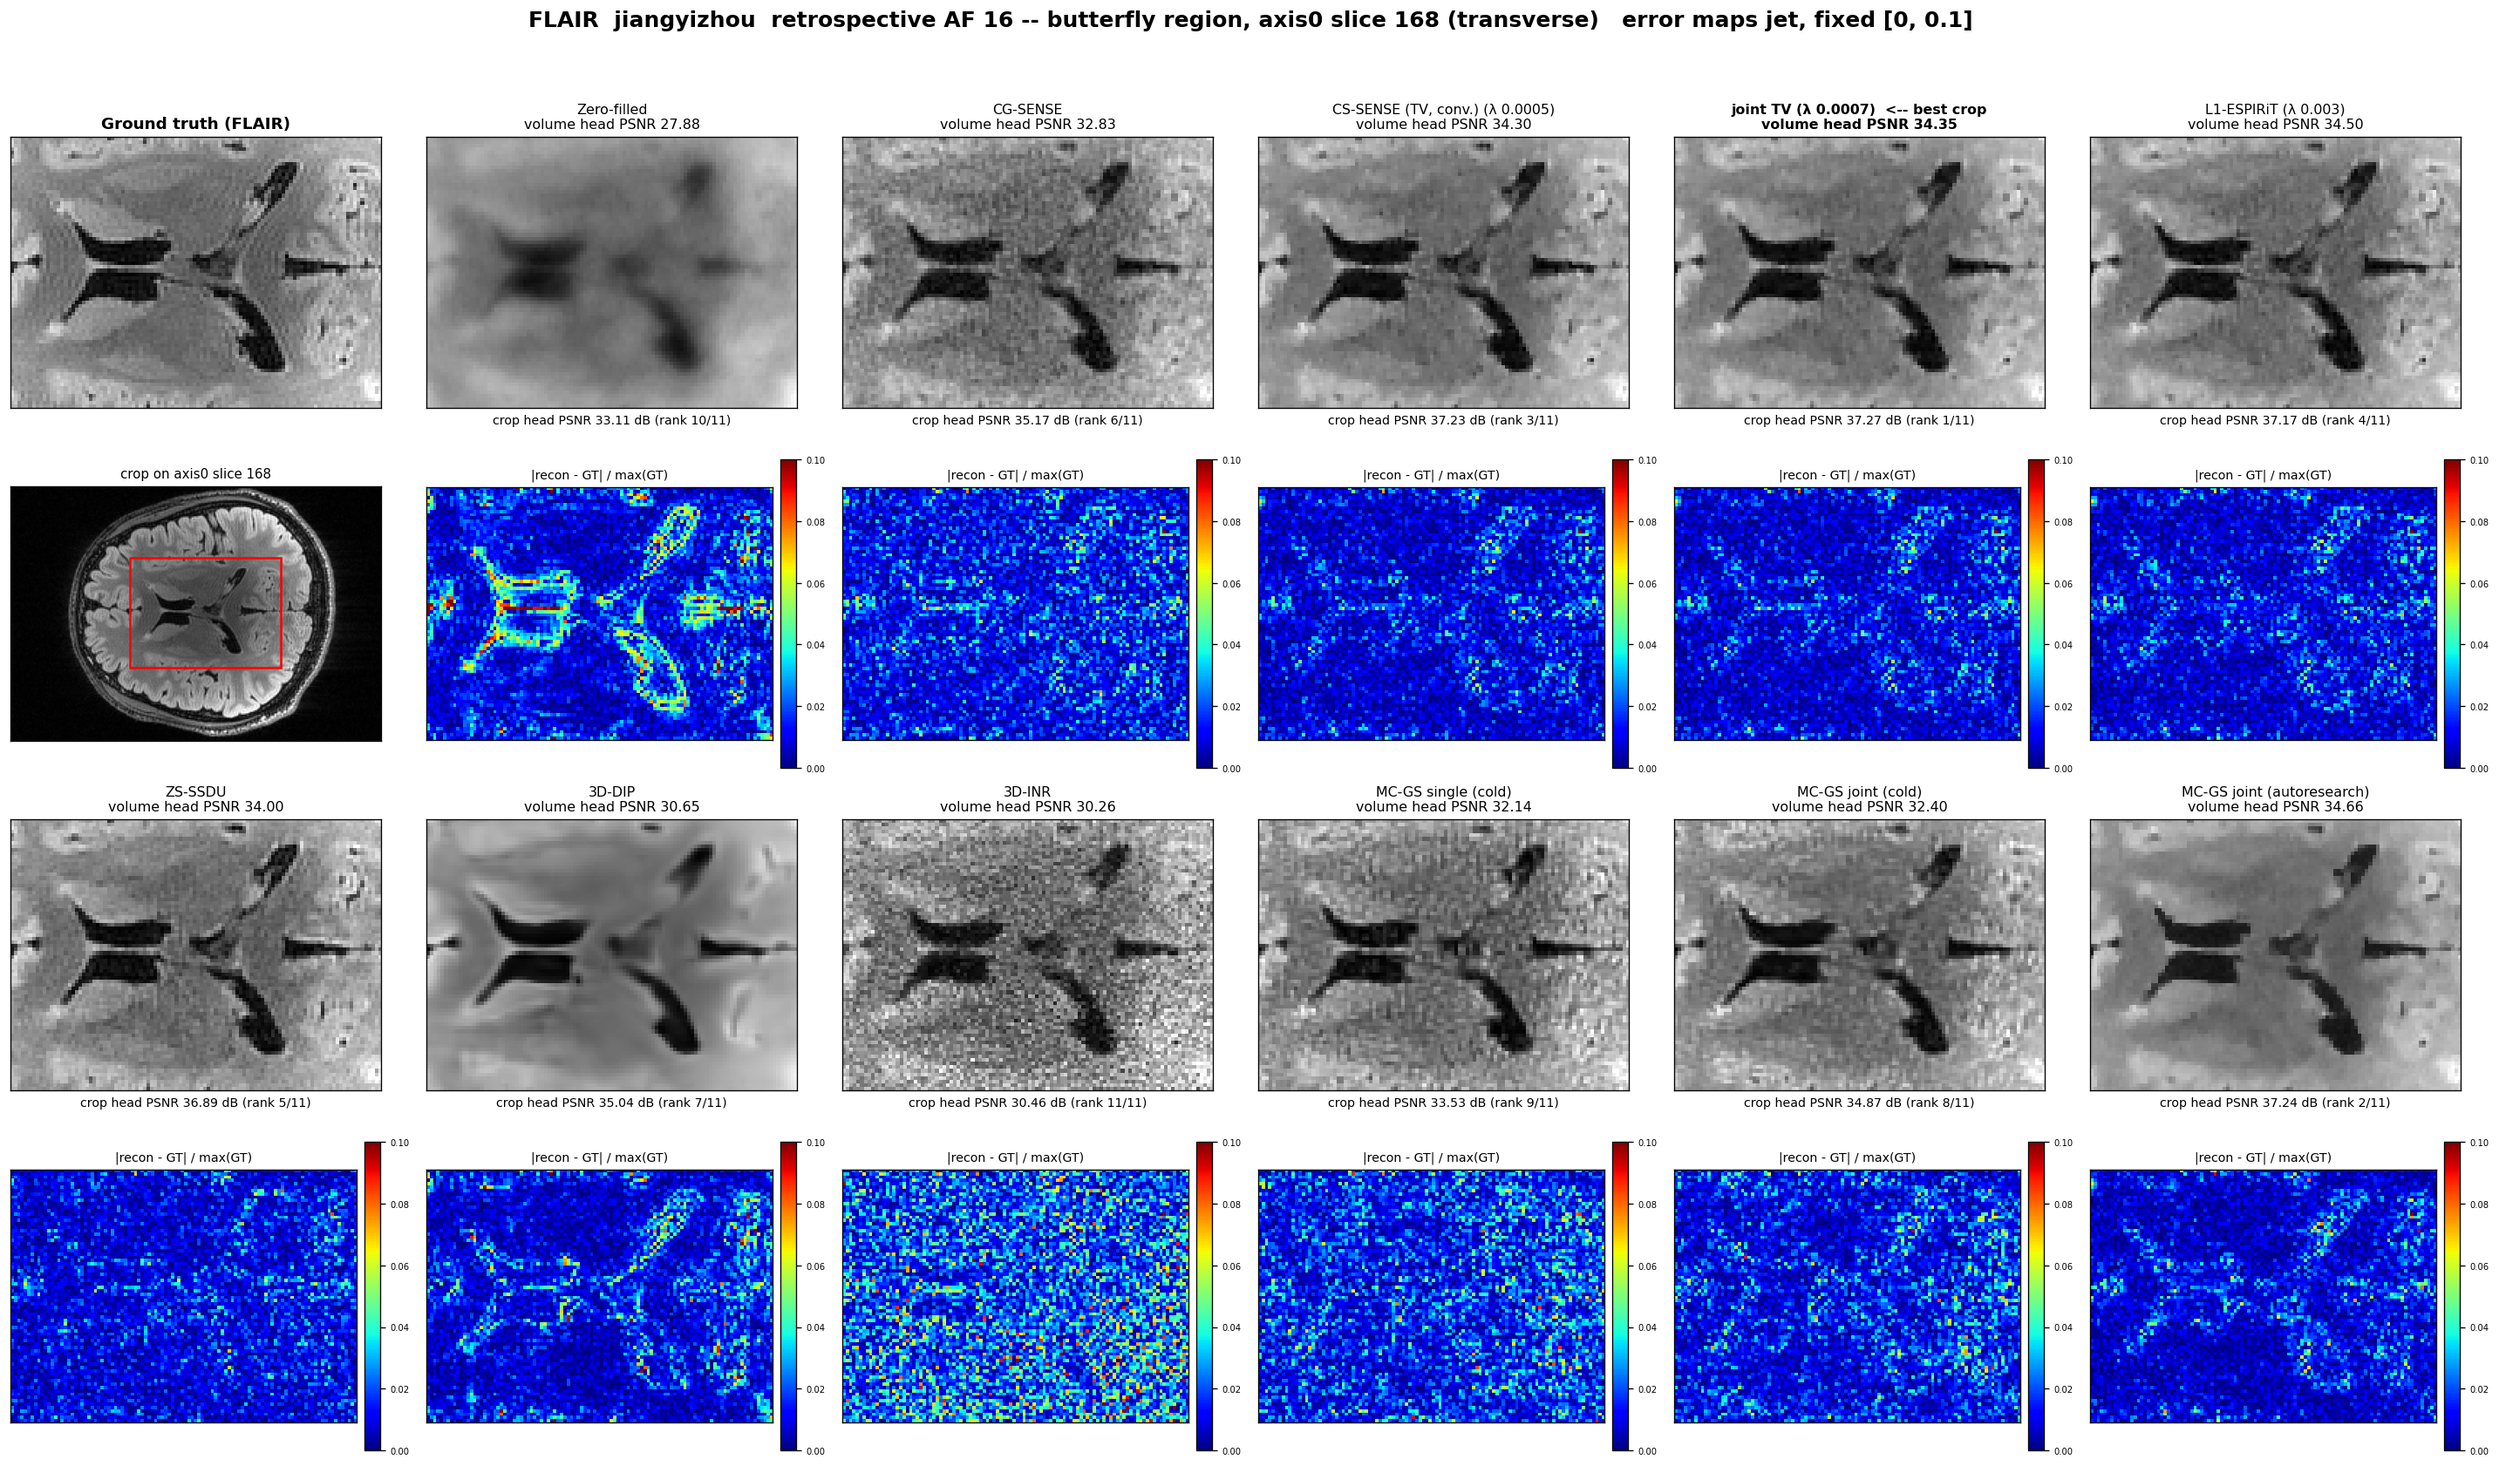
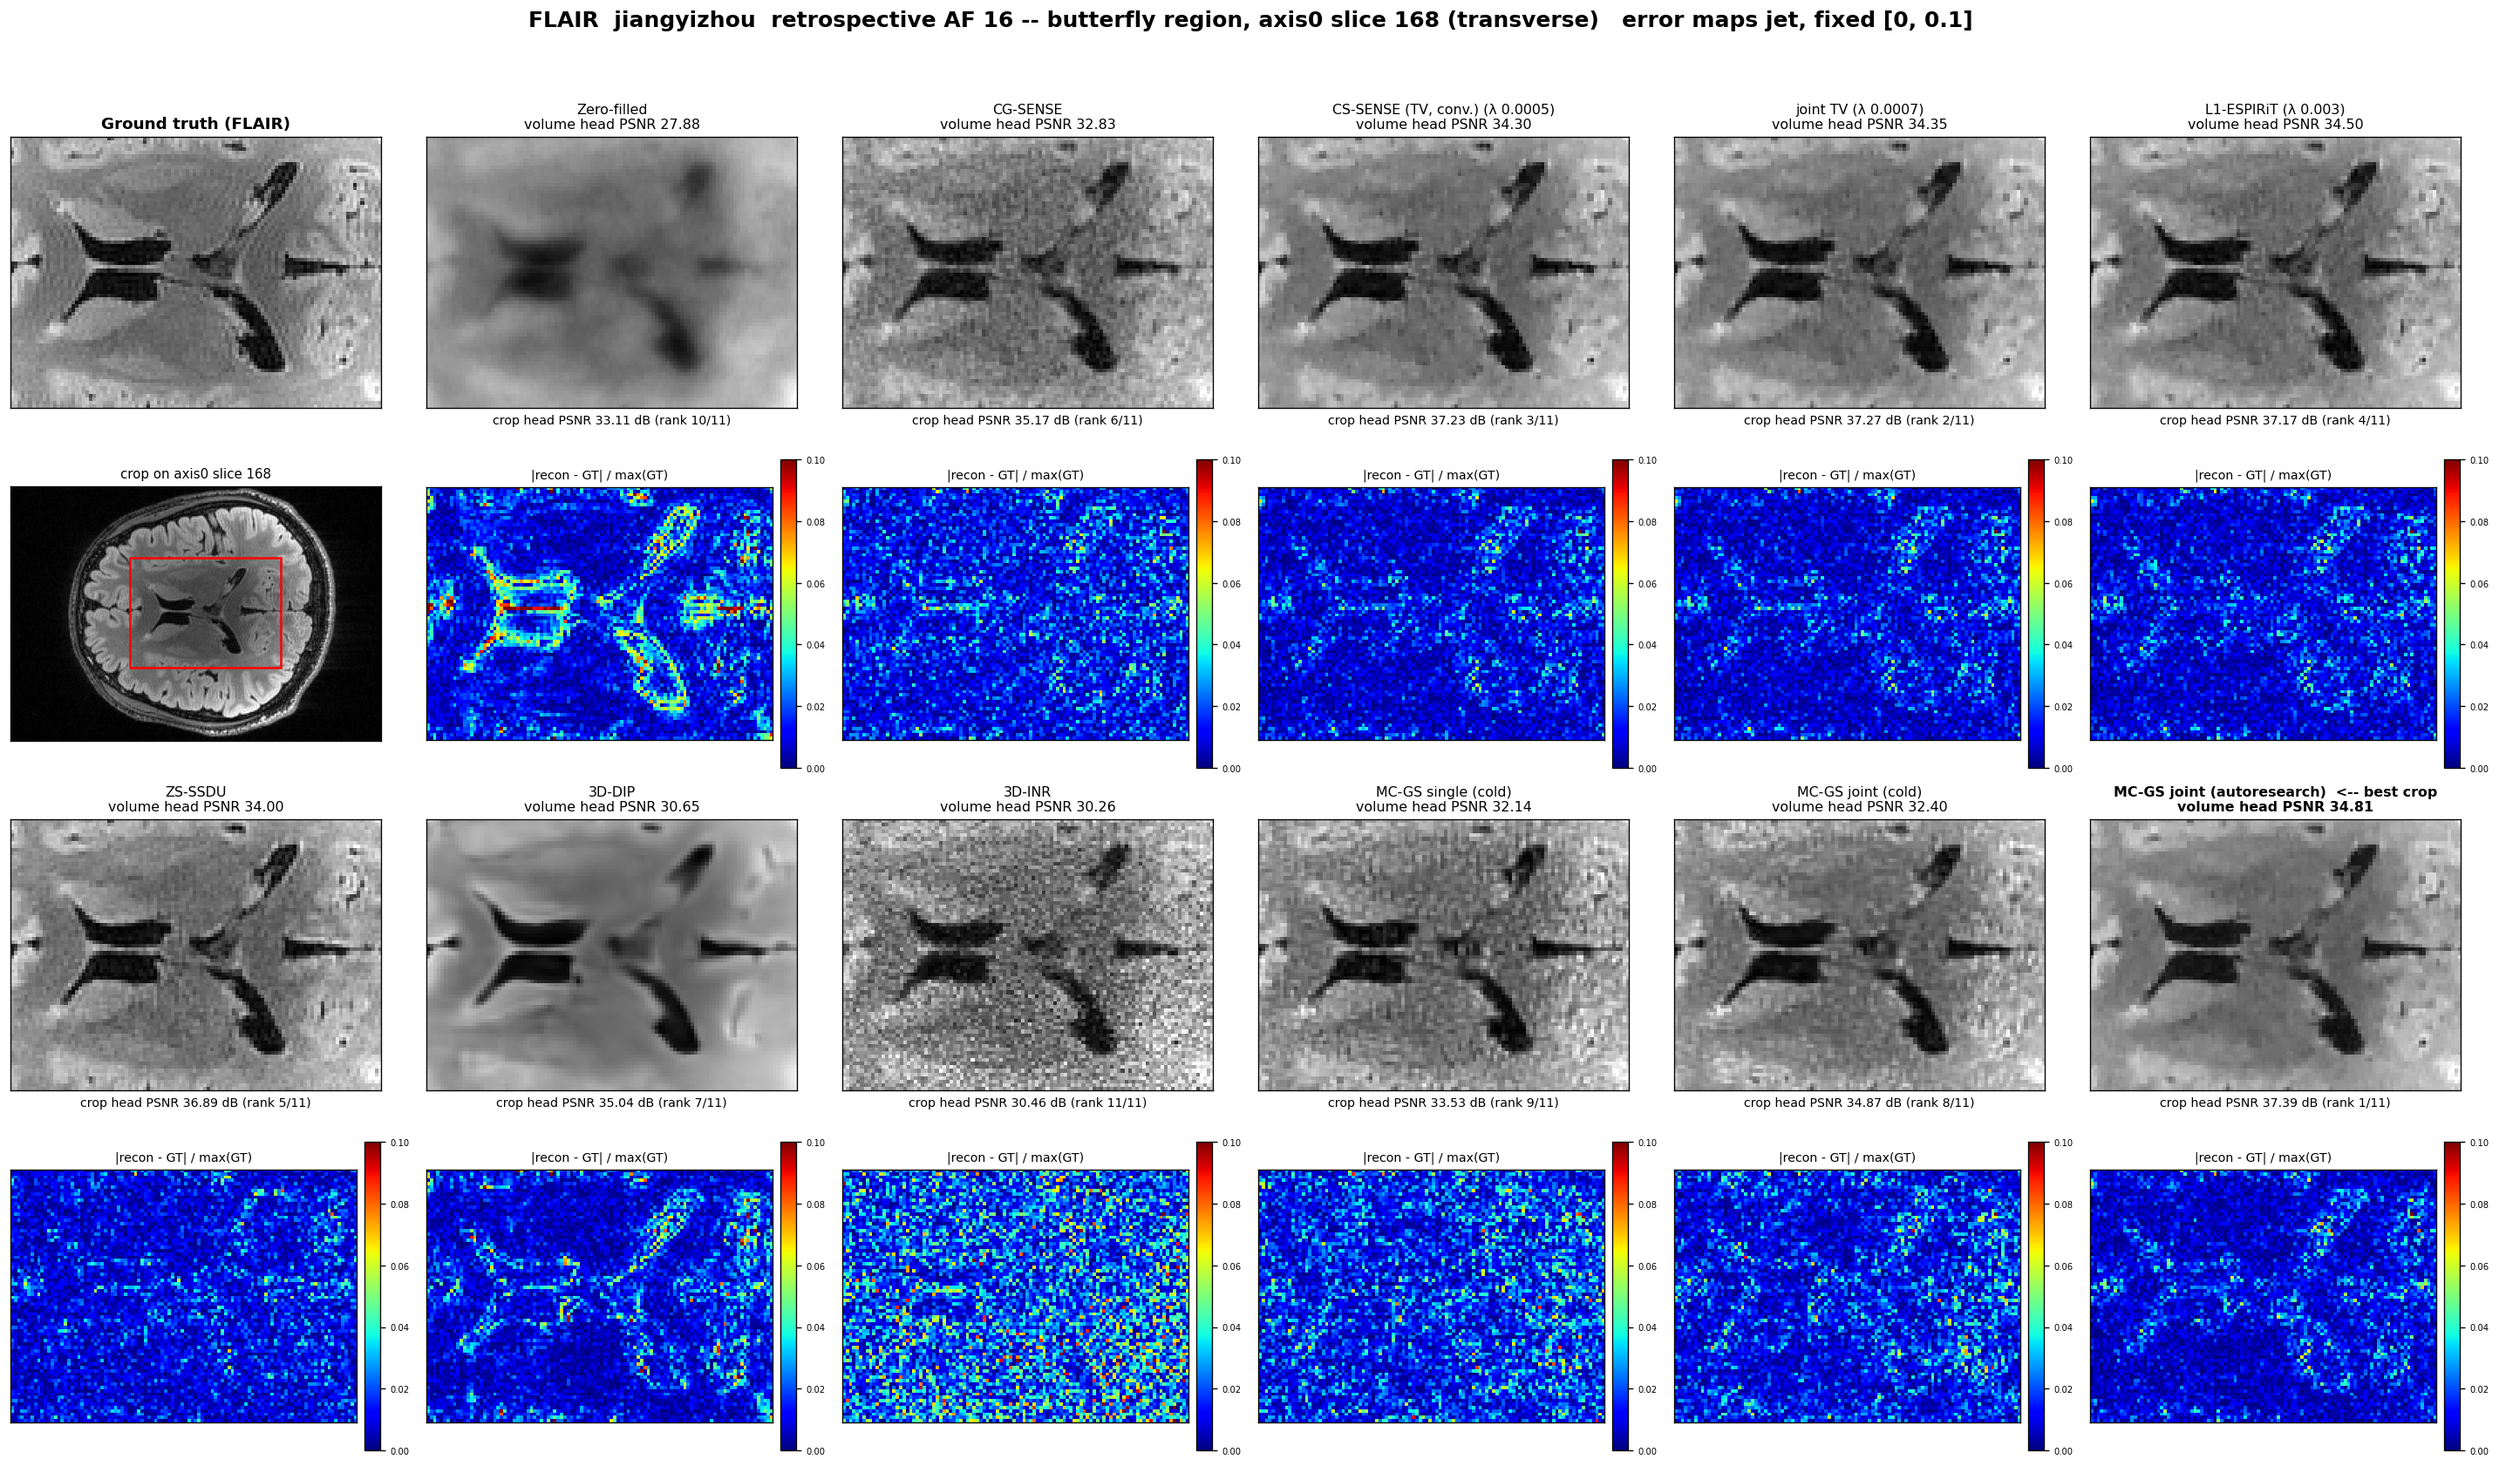
autoresearch jyz af16: P6 at full budget is the final MC-GS joint - first on head PSNR (+0.343 / +0.304), SSIM and HFEN over L1-ESPIRiT; final figures

Changed region(s): [[0.8385, 0.8038, 0.9937, 0.9893], [0.8695, 0.5256, 0.9627, 0.5565], [0.6832, 0.0618, 0.7763, 0.0927]]

diff --git a/t1flair_af16_v3_jiangyizhou/README.md b/t1flair_af16_v3_jiangyizhou/README.md
@@ -29,9 +29,8 @@ numbers to quote. AF 12 values per arm from `../T1FLAIR_AF12_v3_jiangyizhou/logs
 
 | method | PSNR | SSIM | head PSNR | head SSIM | head HFEN | sharp | head PSNR @AF12 | AF16 − AF12 |
 |---|---|---|---|---|---|---|---|---|
-| MC-GS joint (autoresearch, 2.4M) | 38.919 | 0.9093 | **35.434** | 0.9325 | 0.1307 | 0.764 | -- | -- |
-| MC-GS joint (autoresearch) | 38.836 | 0.9112 | 35.397 | 0.9306 | 0.1345 | 0.753 | -- | -- |
-| L1-ESPIRiT (λ 0.0015) | 38.758 | 0.9479 | 35.209 | **0.9334** | 0.1286 | 0.849 | 36.334 | -1.12 |
+| MC-GS joint (autoresearch) | 39.016 | 0.9124 | **35.552** | **0.9351** | 0.1218 | 0.830 | -- | -- |
+| L1-ESPIRiT (λ 0.0015) | 38.758 | 0.9479 | 35.209 | 0.9334 | 0.1286 | 0.849 | 36.334 | -1.12 |
 | CS-SENSE (TV, converged) (λ 0.0007) | 38.646 | 0.9506 | 34.945 | 0.9317 | 0.1380 | 0.823 | 36.144 | -1.20 |
 | joint CS-SENSE (JTV) (λ 0.001) | 38.595 | 0.9514 | 34.831 | 0.9311 | 0.1429 | 0.811 | 36.070 | -1.24 |
 | CS-SENSE | 38.187 | 0.9393 | 34.409 | 0.9276 | 0.1531 | 0.768 | 35.762 | -1.35 |
@@ -47,9 +46,8 @@ numbers to quote. AF 12 values per arm from `../T1FLAIR_AF12_v3_jiangyizhou/logs
 
 | method | PSNR | SSIM | head PSNR | head SSIM | head HFEN | sharp | head PSNR @AF12 | AF16 − AF12 |
 |---|---|---|---|---|---|---|---|---|
-| MC-GS joint (autoresearch) | 38.166 | 0.9030 | **34.664** | 0.9148 | 0.1327 | 0.699 | -- | -- |
-| MC-GS joint (autoresearch, 2.4M) | 38.160 | 0.8988 | 34.605 | 0.9150 | 0.1306 | 0.705 | -- | -- |
-| L1-ESPIRiT (λ 0.003) | 38.027 | 0.9310 | 34.503 | **0.9201** | 0.1210 | 0.789 | 35.720 | -1.22 |
+| MC-GS joint (autoresearch) | 38.342 | 0.9045 | **34.807** | **0.9203** | 0.1188 | 0.788 | -- | -- |
+| L1-ESPIRiT (λ 0.003) | 38.027 | 0.9310 | 34.503 | 0.9201 | 0.1210 | 0.789 | 35.720 | -1.22 |
 | joint CS-SENSE (JTV) (λ 0.0007) | 38.048 | 0.9408 | 34.355 | 0.9177 | 0.1302 | 0.775 | 35.624 | -1.27 |
 | CS-SENSE (TV, converged) (λ 0.0005) | 37.904 | 0.9365 | 34.302 | 0.9180 | 0.1309 | 0.751 | 35.581 | -1.28 |
 | ZS-SSDU | 37.882 | 0.9461 | 34.005 | 0.9185 | 0.1529 | 1.036 | 35.034 | -1.03 |

diff --git a/autoresearch_jyz_af16.md b/autoresearch_jyz_af16.md
@@ -511,3 +511,20 @@ its promotion **`ar14_n36_v2tv_full4k`** (4000 iterations, volumes, GPU 0) and t
   (joint − single = −0.009). **At the old recipe the shared geometry gives T1 +0.098 dB and costs FLAIR 0.009 dB**
   (both single arms are themselves above L1-ESPIRiT: +0.090 / +0.171). The single arms at P6 are what the final
   table uses.
+
+### Promotion 4 — P6 at full budget: the final MC-GS joint (02:55)
+
+| arm | T1 head PSNR | FLAIR head PSNR | head SSIM | head HFEN | sharp |
+|---|---|---|---|---|---|
+| **MC-GS joint, P6** (`ar14_n36_v2tv_full4k`, 4000) | **35.552** | **34.807** | **0.9351 / 0.9203** | **0.1218 / 0.1188** | 0.830 / 0.788 |
+| L1-ESPIRiT (best λ on this subject) | 35.209 | 34.503 | 0.9334 / 0.9201 | 0.1286 / 0.1210 | **0.849 / 0.789** |
+| margin | **+0.343** | **+0.304** | +0.0017 / +0.0002 | −0.0068 / −0.0022 | −0.019 / −0.001 |
+
+**Objective met, and more than the declared number.** At 4000 iterations the final MC-GS joint — the repaired cold
+start, 3.6M points, edge-TV λ_geo 0.10 / κ_q 0.85, wavelet sparsity T1 0.10 / FLAIR 0.07 — is first of all arms of
+the jiangyizhou AF16 table on head PSNR (+0.34 / +0.30 dB over L1-ESPIRiT), head SSIM and head HFEN, in both
+contrasts; only sharpness stays below L1-ESPIRiT (−0.019 on T1, −0.001 on FLAIR). In the butterfly crop it is first on
+both contrasts (T1 40.411 vs joint TV 40.372; FLAIR 37.387 vs 37.271). Registered as the topic's `gs_joint_ar`
+(the intermediate 2.4M arm was removed from the topic table; every intermediate stays in this ledger). Final figures:
+`figs/t1flair_v3_af16/t1flair_v3_af16_{T1,FLAIR}_butterflyfinal_axis0_168.png`. Still running: the P6 single arms
+and the P6 seed repeat at 4000.
